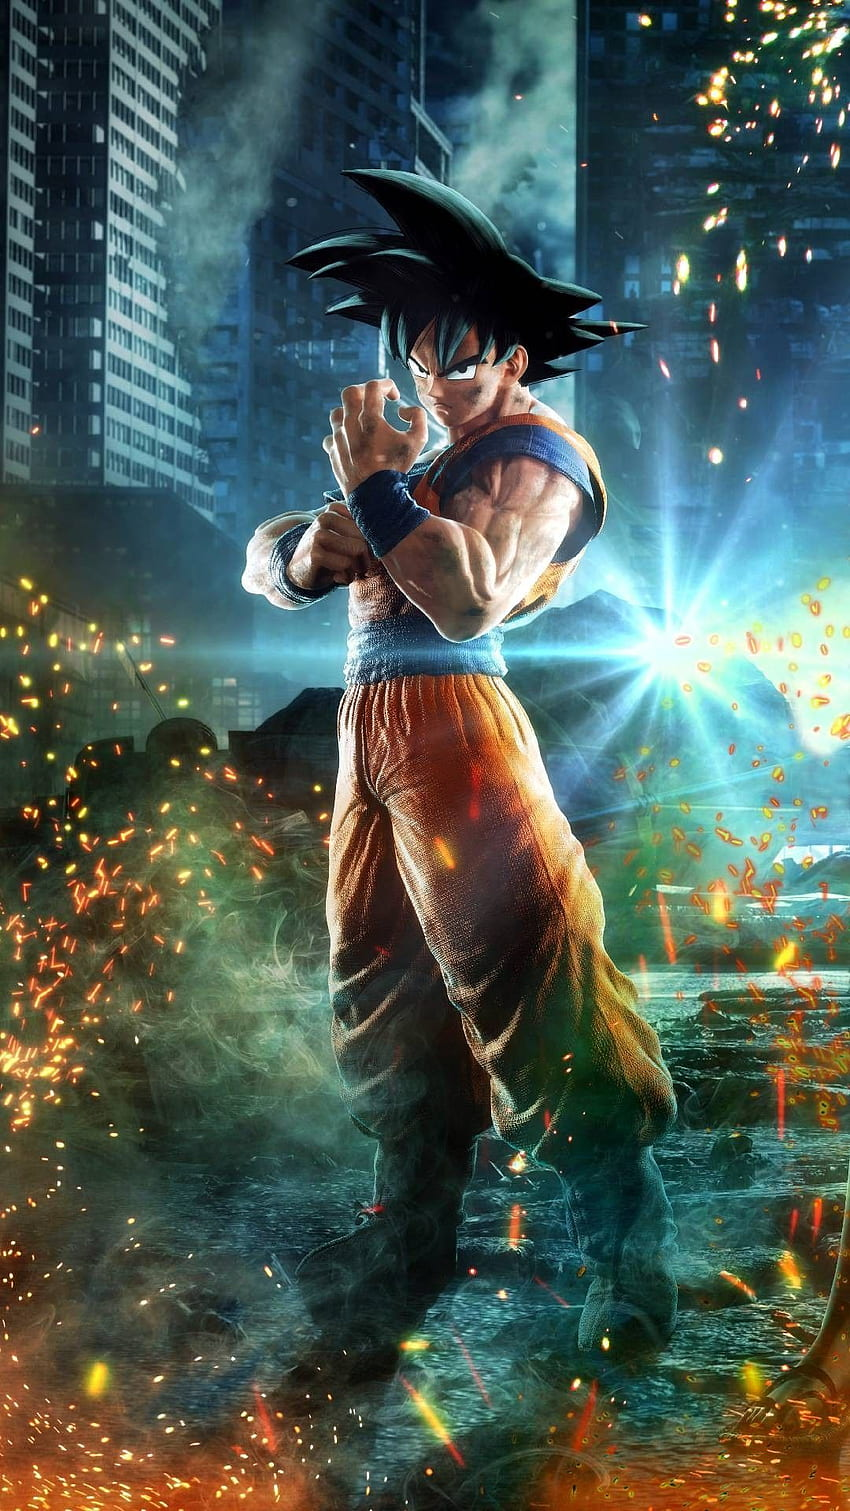
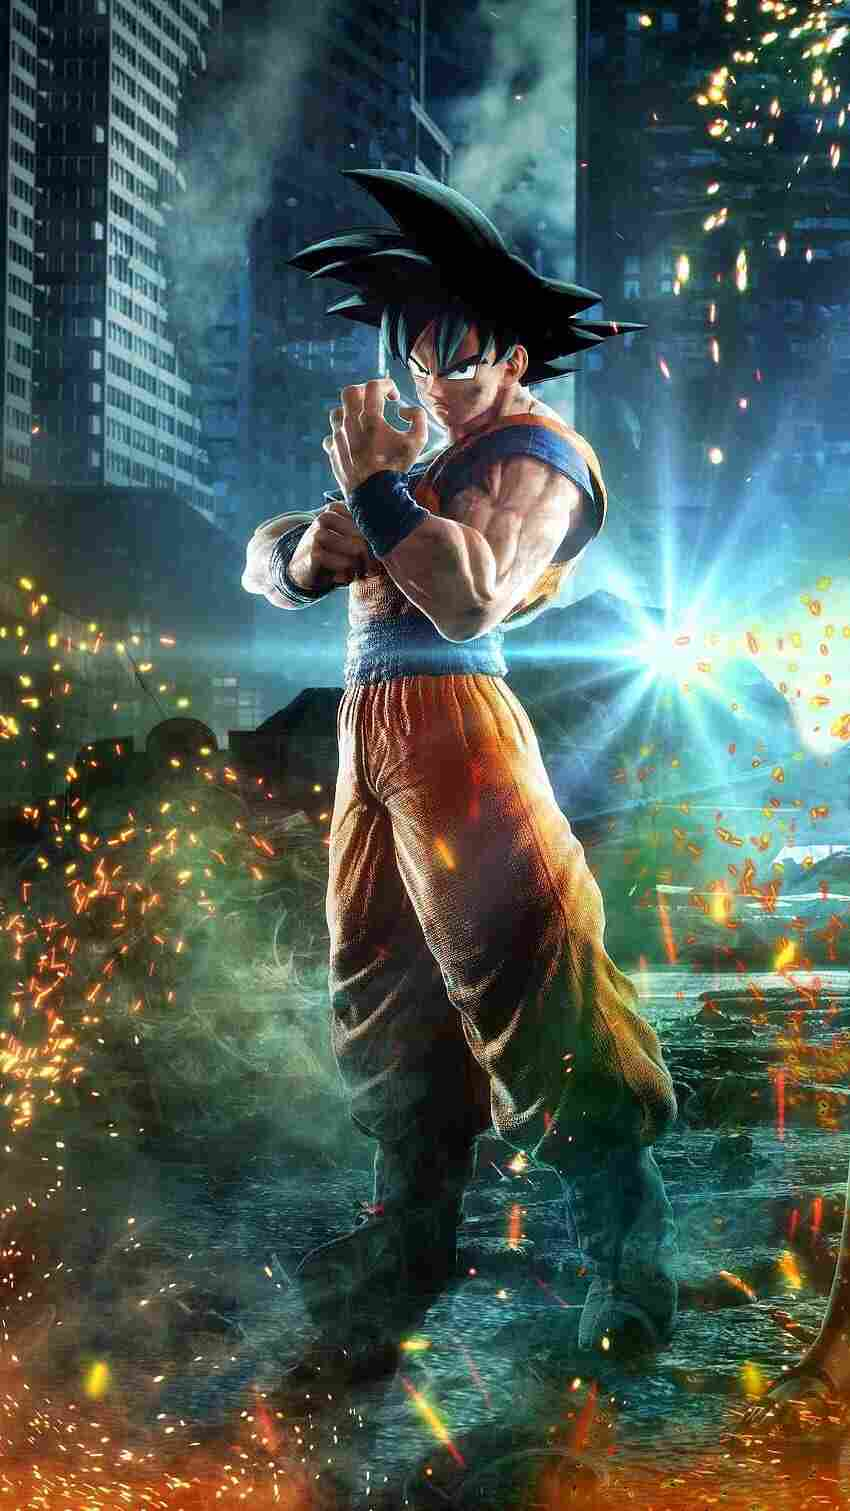
images compressed and down arrow bug fix

diff --git a/style.css b/style.css
@@ -110,25 +110,25 @@
 
 @keyframes change-width-50 {
   100% {
-    width: 45px;
+    width: 35px;
   }
   50% {
     width: 50%;
   }
   0% {
-    width: 45px;
+    width: 35px;
   }
 }
 
 @keyframes change-width-75 {
   100% {
-    width: 45px;
+    width: 35px;
   }
   50% {
     width: 75%;
   }
   0% {
-    width: 45px;
+    width: 35px;
   }
 }
 
@@ -143,9 +143,9 @@ html {
 .navbar__toggle .bar {
   display: block;
   cursor: pointer;
-  width: 45px;
+  width: 35px;
   height: 4px;
-  margin: 7px auto;
+  margin: 4px auto;
   transition: all 0.3s ease-in-out;
   background: #fff;
   z-index: 999999;
@@ -171,10 +171,10 @@ html {
   opacity: 0;
 }
 #mobile-menu.is-active .bar:nth-child(1) {
-  transform: translateY(11px) rotate(45deg);
+  transform: translateY(8px) rotate(45deg);
 }
 #mobile-menu.is-active .bar:nth-child(3) {
-  transform: translateY(-11px) rotate(-45deg);
+  transform: translateY(-8px) rotate(-45deg);
 }
 
 .bg {
@@ -640,16 +640,23 @@ html {
   background-size: cover;
   z-index: 2;
 }
+.down_arr_class{
+  position: absolute;
+  display: flex;
+  flex-direction: column;
+  flex-wrap: nowrap;
+  top: 88%;
+  left: 50%;
+  align-items: center;
+  z-index: 2;
+}
 
 #down_arrow {
-  width: 70px;
-  left: 47.5%;
-  top: 88%;
-  position: fixed;
+  width: 60px;
   fill: #ffffff;
-  align-self: center;
   z-index: 2;
   transition: rotate 1s;
+  margin-left: -100%;
 }
 
 .navbar_menu {

diff --git a/index.html b/index.html
@@ -84,6 +84,7 @@
         </li>
       </ul>
     </div>
+  <div class="down_arr_class">
     <svg
       id="down_arrow"
       xmlns="http://www.w3.org/2000/svg"
@@ -95,6 +96,7 @@
         d="M16.1464844,11.6464844L12.5,15.2930298V7.5C12.5,7.223877,12.276123,7,12,7s-0.5,0.223877-0.5,0.5v7.7930298l-3.6465454-3.6464844c-0.1937256-0.1871338-0.5009155-0.1871338-0.6947021,0c-0.1986084,0.1918335-0.2041016,0.5083618-0.0122681,0.7069702l4.4995728,4.4995728c0.0458984,0.0459595,0.1005859,0.0828247,0.161377,0.1082153C11.8678589,16.9865112,11.9332275,17.0001221,12,17h0.0006104c0.0106201,0,0.0195312-0.0053711,0.0299683-0.0060425c0.0558472-0.003479,0.1112671-0.0115356,0.1621704-0.0328369c0.0610352-0.0255127,0.1159058-0.062561,0.1618652-0.1087646l4.4988403-4.4988403c0.1871948-0.1937866,0.1871948-0.5009766,0-0.6947632C16.6616211,11.460144,16.3450928,11.4546509,16.1464844,11.6464844z M12,2C6.4771729,2,2,6.4771729,2,12s4.4771729,10,10,10c5.5201416-0.0064697,9.9935303-4.4798584,10-10C22,6.4771729,17.5228271,2,12,2z M12,21c-4.9705811,0-9-4.0294189-9-9s4.0294189-9,9-9c4.9682617,0.0056152,8.9943848,4.0317383,9,9C21,16.9705811,16.9705811,21,12,21z"
       ></path>
     </svg>
+  </div>
     <script src="app.js"></script>
   </body>
 </html>

diff --git a/app.js b/app.js
@@ -436,11 +436,12 @@ menu.addEventListener("click", function () {
     down_arrow.css("rotate", "-0deg");
   } else if (is_menu_present) {
     navbar_menu.removeClass("navbar_menu");
-    down_arrow.css("z-index", "2");
+    $(".down_arr_class").css("display", "flex");
+    $(".down_arr_class").css("z-index", "2");
     is_menu_present = false;
   } else if (!is_menu_present) {
     navbar_menu.addClass("navbar_menu");
-    down_arrow.css("z-index", "-1");
+    $(".down_arr_class").css("z-index", "-1");
     is_menu_present = true;
   }
   menu.classList.toggle("is-active");
